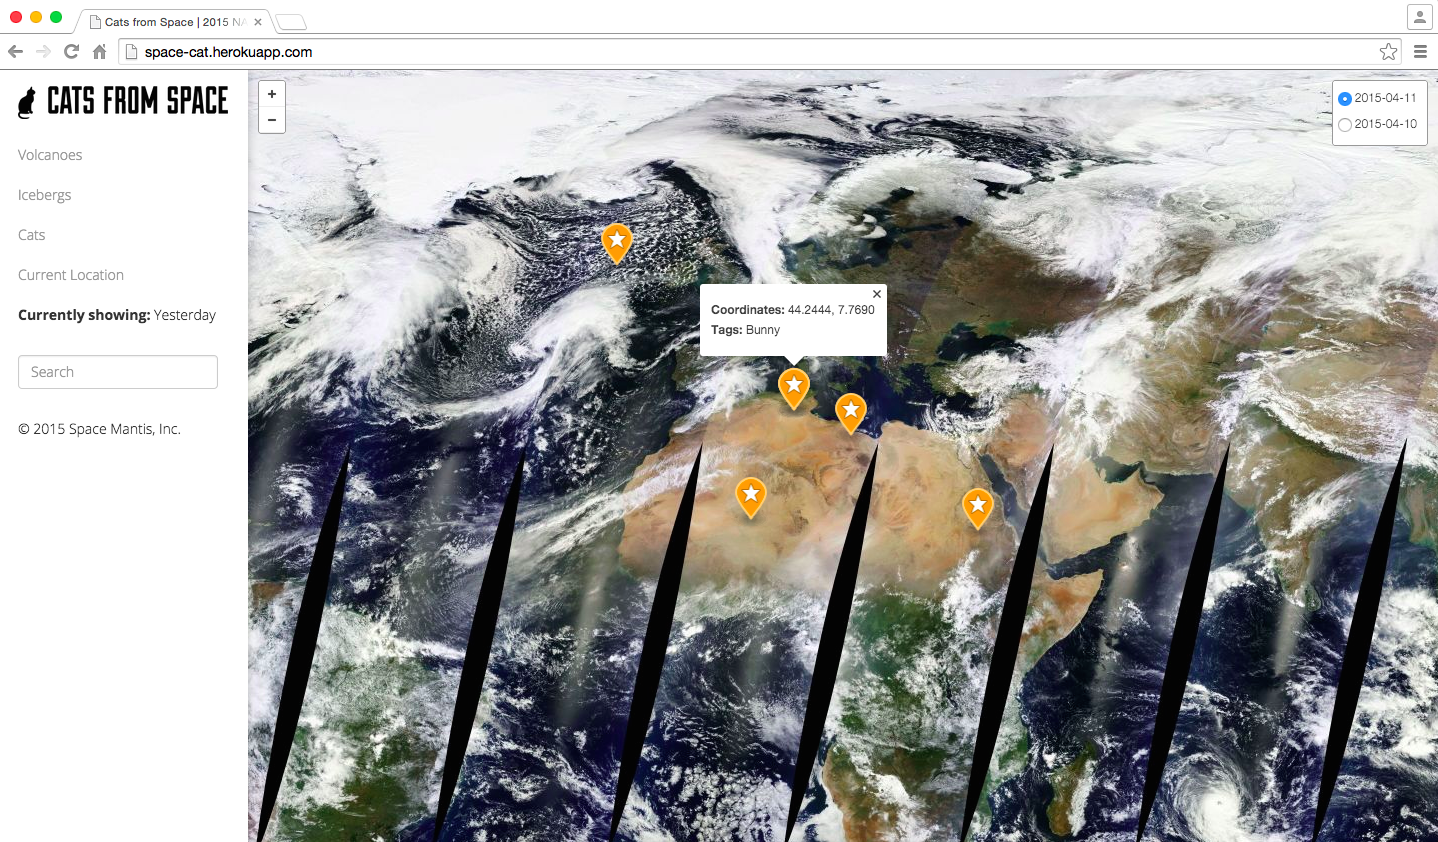
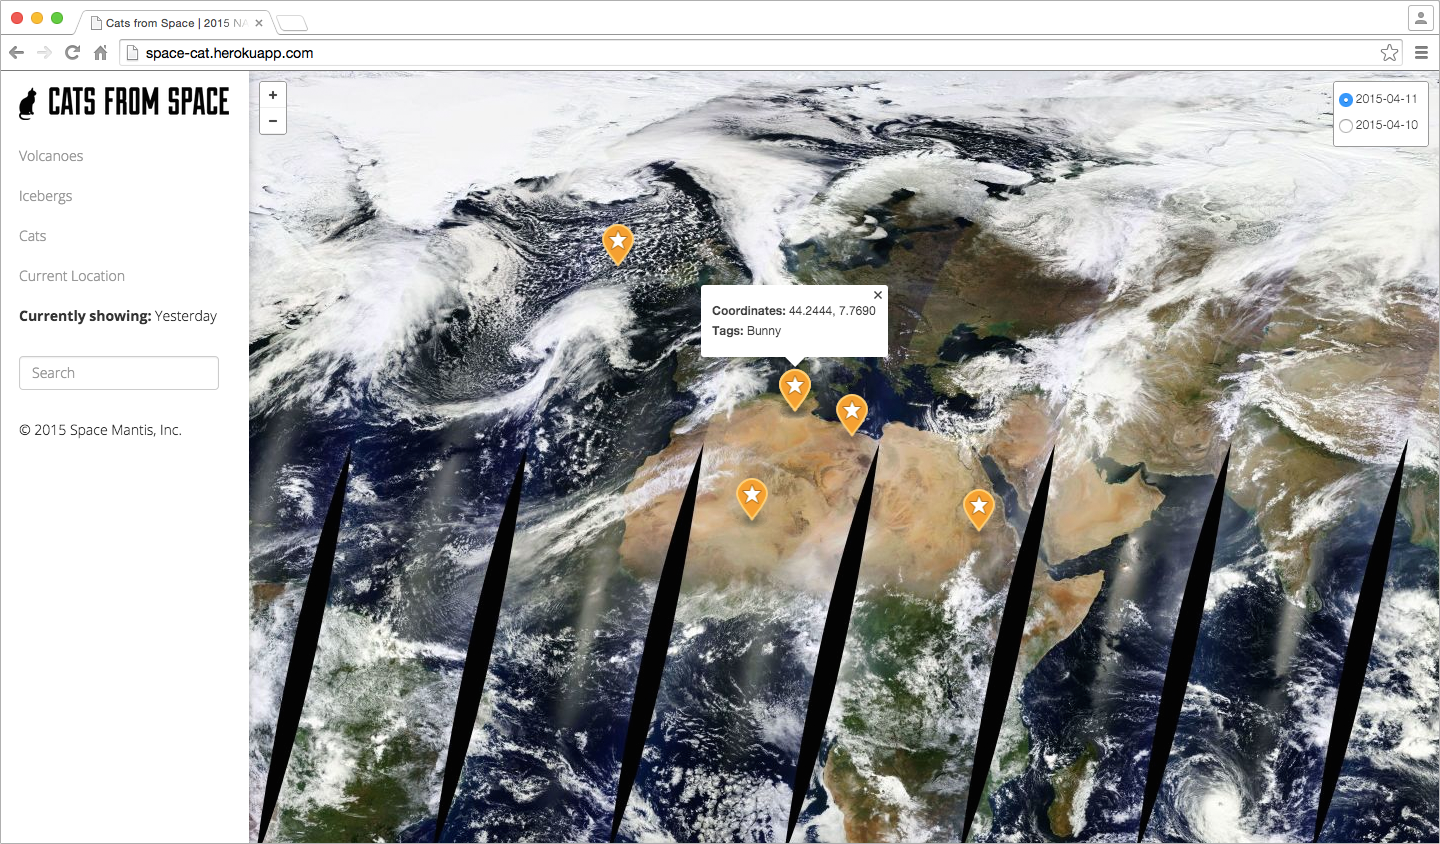
Update screenshot and readme

diff --git a/readme.md b/readme.md
@@ -2,8 +2,9 @@
 A web and iOS mobile application that allows users to explore satellite imagery and tag interesting objects and phenomena. We hope to crowdsource the discovery of near real-time events on Earth, in addition to a fun social sharing aspect ("Does this look like a cat from space? Yes, yes it does.").
 
 Live link: http://space-cat.herokuapp.com/
-
 NASA Hackathon link: https://2015.spaceappschallenge.org/project/cats-from-space/
+
+![Screenshot of Cats From Space](https://raw.githubusercontent.com/aroundthesea/cats-from-space/develop/screenshots/cats-from-space-screenshot.png)
 
 ### Installation
 * Clone
